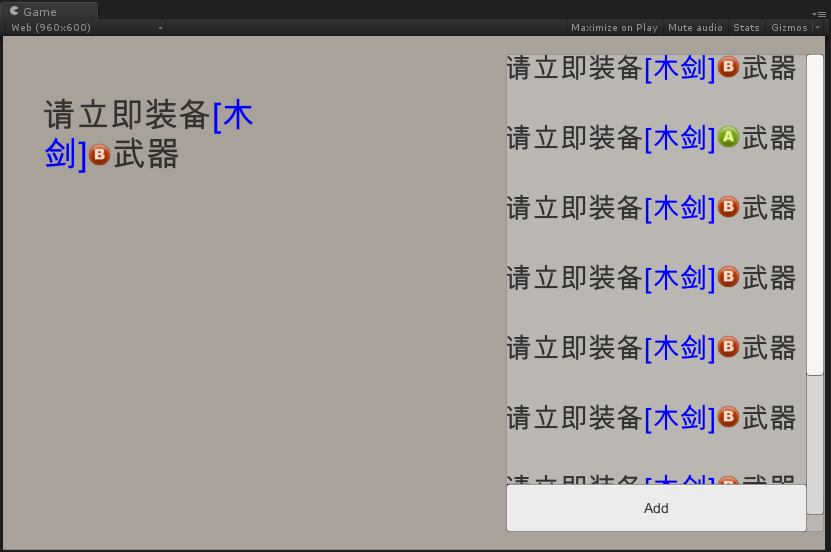
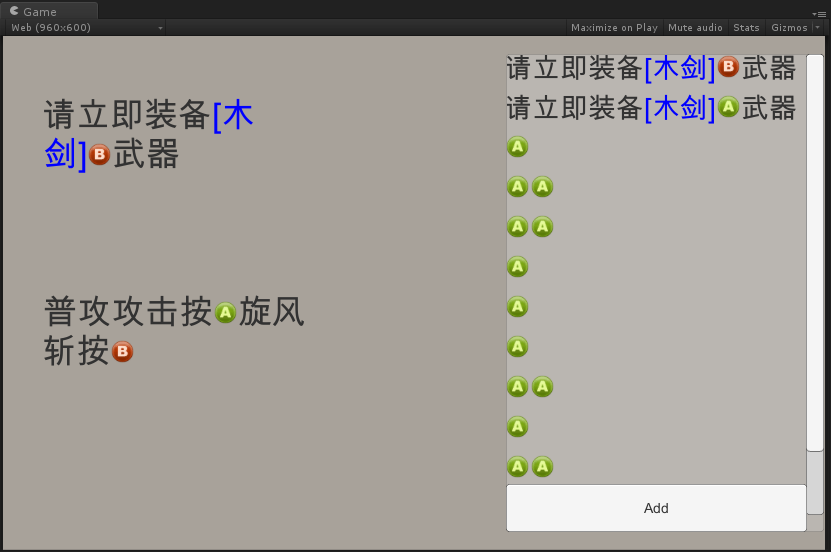
更新示例

diff --git a/LinkImageText/Assets/Demo/testScrollView.cs b/LinkImageText/Assets/Demo/testScrollView.cs
@@ -10,6 +10,13 @@ public class testScrollView : MonoBehaviour
         {
             GameObject go = Instantiate(goPrefab);
             go.transform.SetParent(goPrefab.transform.parent);
+
+            LinkImageText text = go.GetComponentInChildren<LinkImageText>();
+            text.text = "<quad name=xb_a size=25 width=1 />";
+            if (Random.value > 0.5f)
+            {
+                text.text += text.text;
+            }
         }
     }
 }
